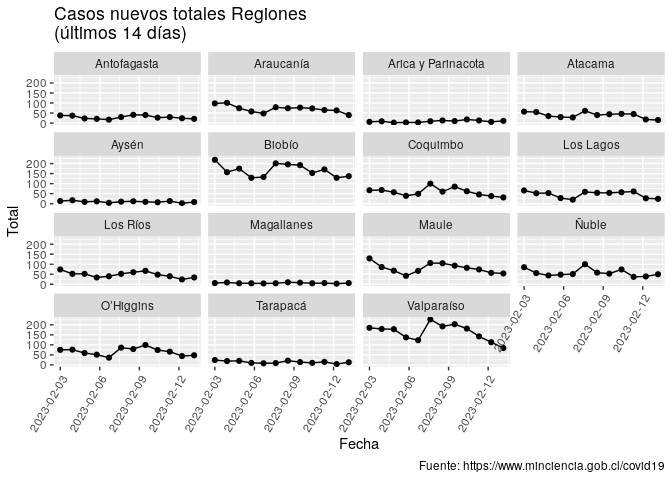
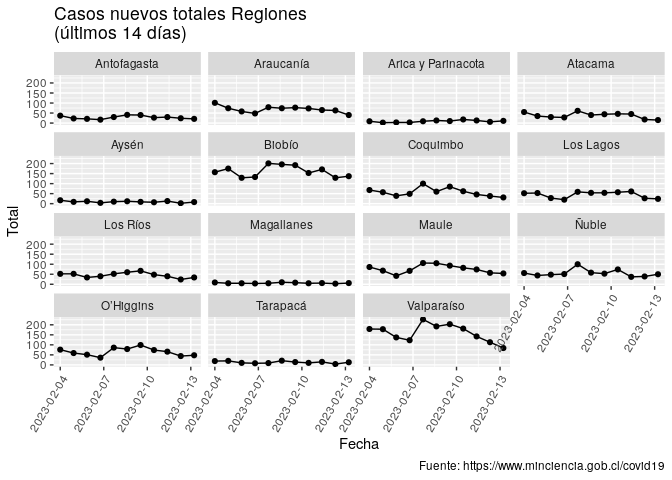
Re-build Rmarkdown files

diff --git a/README.md b/README.md
@@ -3,7 +3,7 @@
 
 Ejemplo de uso de total\_casos de COVID recopilados por el Ministerio de
 Ciencia de Chile <https://www.minciencia.gob.cl/covid19>. Última
-actualización: 2023-02-16
+actualización: 2023-02-17
 
 ## Visualización desde el comienzo de la pandemia
 
